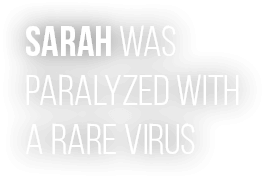
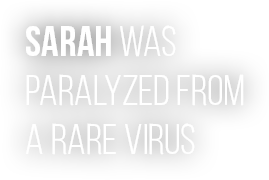
Update texts

diff --git a/2018/2018-04/2018-04-08/source/320x50.css b/2018/2018-04/2018-04-08/source/320x50.css
@@ -670,7 +670,7 @@
 .frame1-text {
   background: url('./images/320x50_frame1_text.png') no-repeat center center;
   background-size: 100% auto;
-  width: 161px;
+  width: 163px;
   height: 10px;
   top: 20px;
   left: 6px;

diff --git a/2018/2018-04/2018-04-08/source/300x600.css b/2018/2018-04/2018-04-08/source/300x600.css
@@ -665,7 +665,7 @@
 }
 .frame1-text {
   background: url('./images/300x600_frame1_text.png') no-repeat center center;
-  width: 265px;
+  width: 269px;
   height: 180px;
   top: 280px;
   left: 3px;

diff --git a/2018/2018-04/2018-04-08/source/728x90.css b/2018/2018-04/2018-04-08/source/728x90.css
@@ -665,7 +665,7 @@
 }
 .frame1-text {
   background: url('./images/728x90_frame1_text.png') no-repeat center center;
-  width: 323px;
+  width: 326px;
   height: 19px;
   top: 36px;
   left: 13px;
